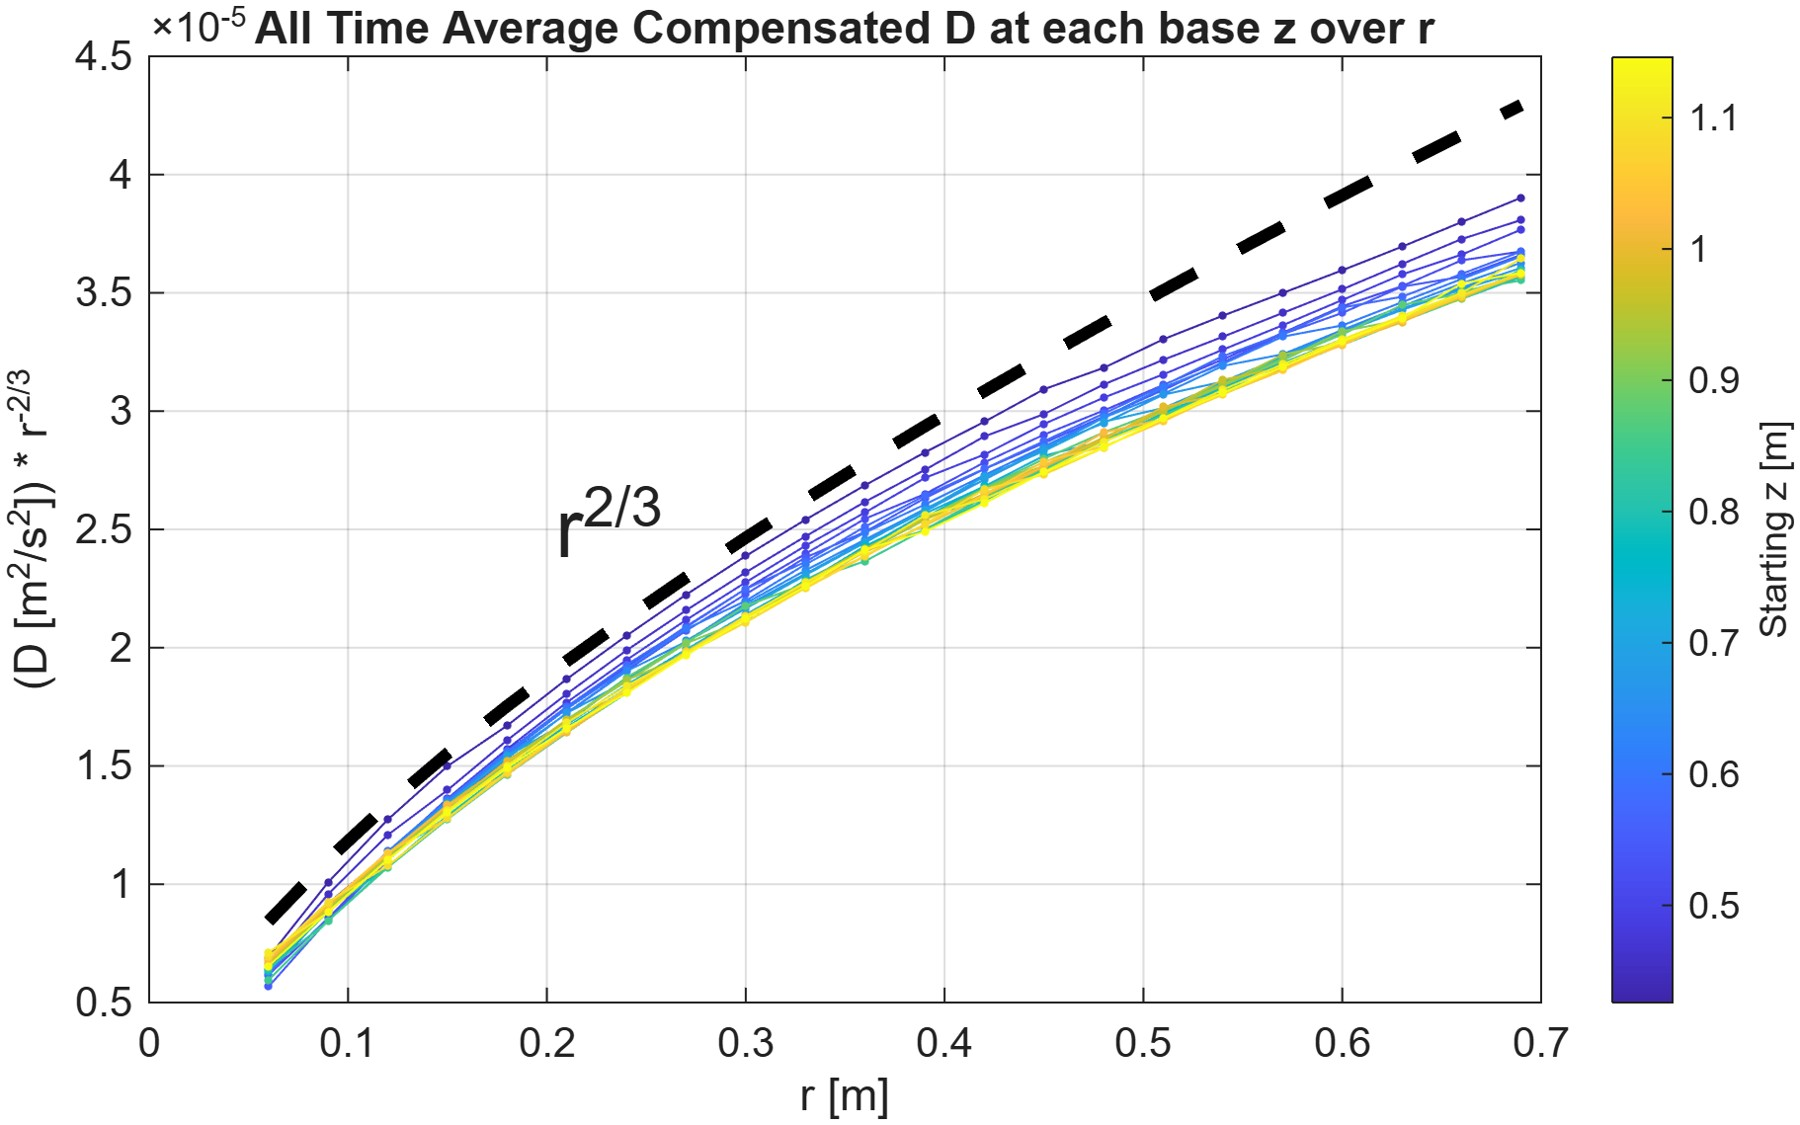
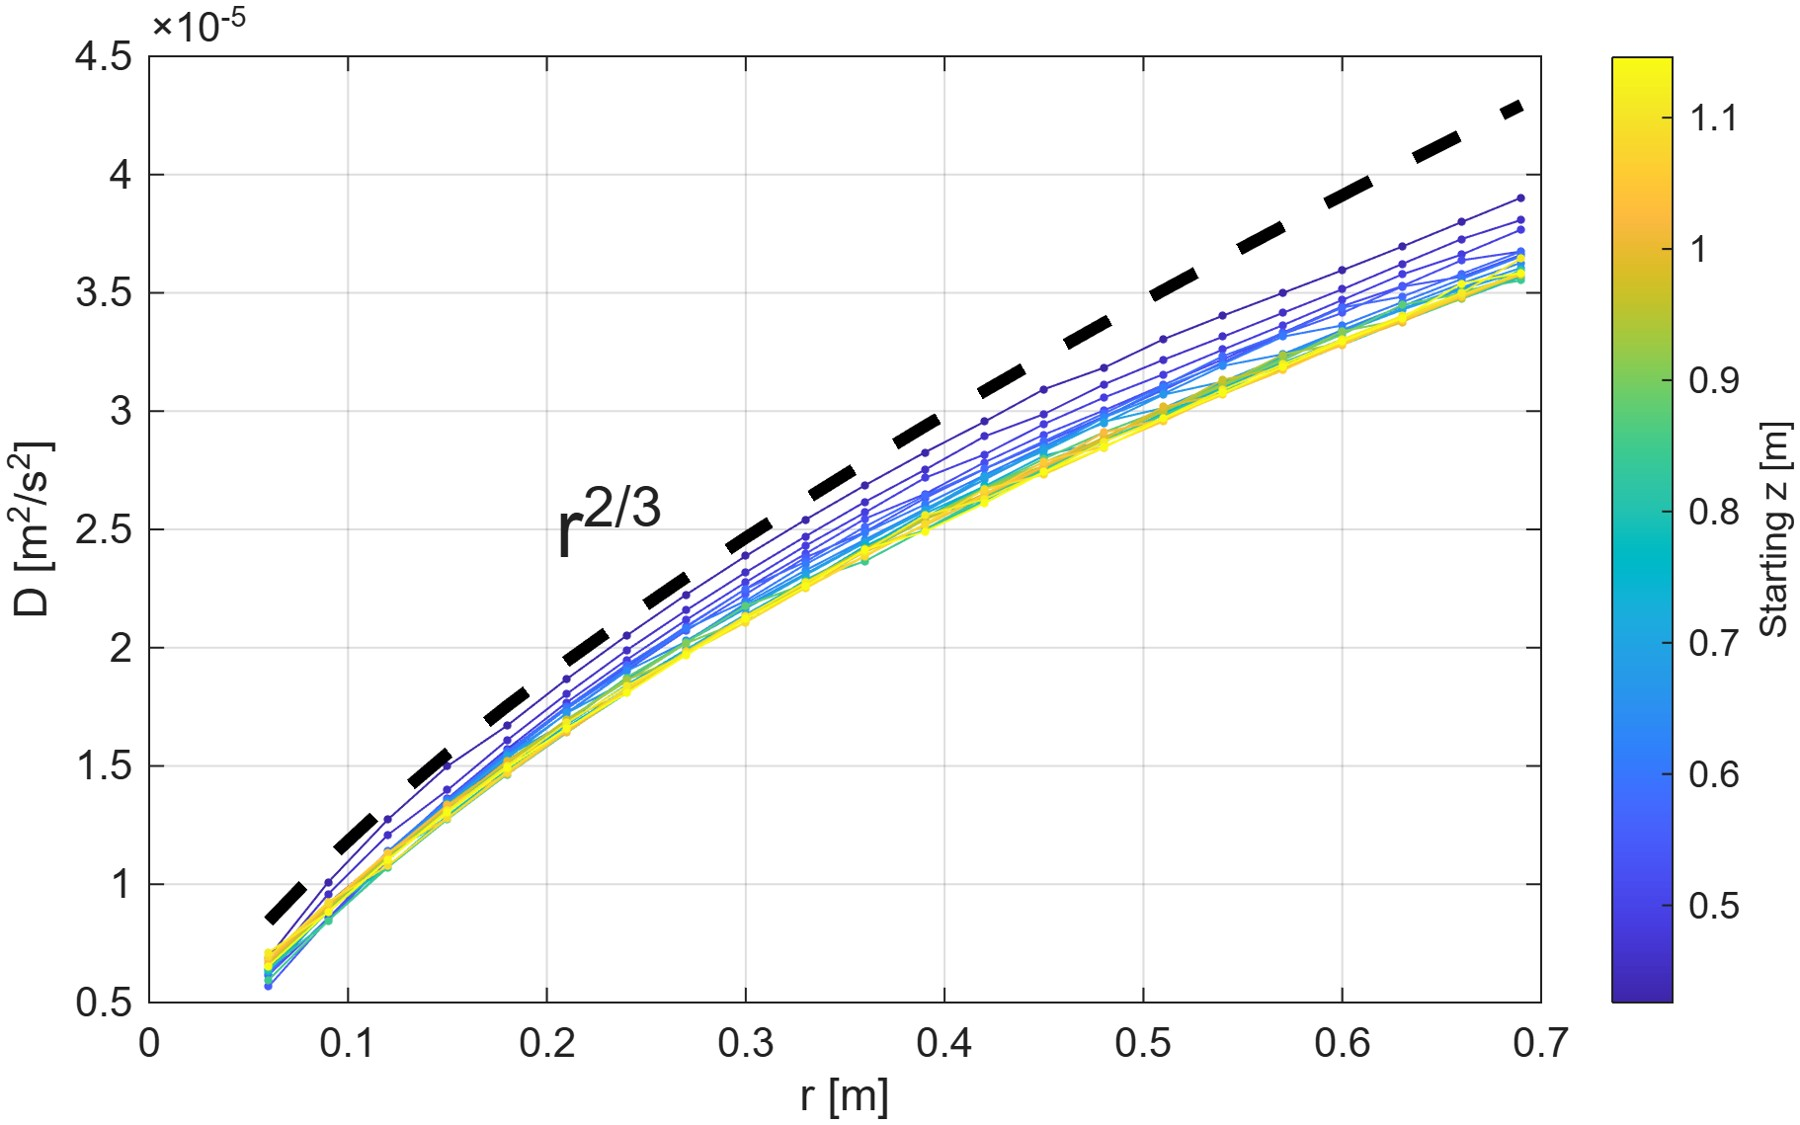
Update_07302026

Changed region(s): [[0.1244, 0.0, 0.8089, 0.0622], [0.0, 0.3422, 0.0311, 0.6222]]

diff --git a/turb_page.html b/turb_page.html
@@ -33,8 +33,8 @@
 				<section id="one">
 					<div class="inner">
 						<h1 style="text-align: center; font-weight: bold; font-size: 32px; color: #333;">Environmental Fluid Dynamics: Turbulence</h1>
-					<a href="images/breaking_bore - Copy.jpg" class="image fit thumb">
-					<img src="images/breaking_bore - Copy.jpg" alt="Environmental Fluid Dynamics" /></img></a>
+					<a href="images/breaking.jpeg" class="image fit thumb">
+					<img src="images/breaking.jpeg" alt="Environmental Fluid Dynamics" /></img></a>
 					
 
 					<h2 style="text-align: center; font-weight: bold; font-size: 24px; color: #333;">Objective</h2>
@@ -206,6 +206,8 @@
 							<div class="inner">
 								<p style="color: #333;">Quality control is applied to the raw data shown in the previous section. Details are a little extensive for the overview here, but they involve removing velocity spikes, data with bad correlation, adjsuting artificial sensor biases, and more. After that, turbulent dissipation is found in the four ways described previously. First we will look at velocity spectra. </p>
 
+								<h3 style="text-align: center; font-weight: bold; font-size: 20px; color: #333;">Velocity Spectra</h3>
+
 								<div class="image-block" style="margin-bottom: 2em;">
 									<a href="images/aqdp_summary_spectra.jpeg" class="image fit thumb">
 										<img src="images/aqdp_summary_spectra.jpeg" alt="Velocity Spectra" />
@@ -224,6 +226,9 @@
 										<strong style="color: #333">One example of a 20 minute vertical velocity spectrum. Turbulence theory (Kolmogorov's Hypothesis) states that the energy cascade should follow a -5/3 slope (in loglog space) for turbulence to be present. The strength of the turbulence depends on the PSD value where the slope matches -5/3. We can see the region >10 m^-1 is close to -5/3.
 								</div>
 							
+								<h3 style="text-align: center; font-weight: bold; font-size: 20px; color: #333;">Structure Functions</h3>
+
+
 							<p style="color: #333;">Structure functions are similar to velocity spectra in that they also should scale with a power law for turbulence to be present. The structure function fixes one velocity and then compares the rest of the velocities vertically away from the fixed point. The squared velocity difference should scale with a 2/3 power law. </p>
 								<div class="image-block" style="margin-bottom: 2em; max-width: 75%; margin-left: auto; margin-right: auto;">
 									<a href="images/SF_20.jpeg" class="image fit thumb">
@@ -240,7 +245,16 @@
 									<p style="color: #333; margin-top: 0.8em;">
 										<strong style="color: #333">Average 20min. structure function for the entire timeseries, most of the variations have been averaged out. The portion that follows 2/3 power law is near the center of the r range.</strong>
 								</div>
-								
+
+								<h3 style="text-align: center; font-weight: bold; font-size: 20px; color: #333;">Thorpe Scale</h3>
+								<p style="color: #333;">The Thorpe scale measures the strength of turbulence by tracking how far water is displaced vertically during a turbulent event. These overturns are easily viewable in the raw temperature signal. The strengthe of turbulence depends on both the size of the overturn and the level of stratification across the overturns vertical range. Stratification is a measure of the vertical density gradient in the ocean. If there is a large gradient, the stratification is high, and vice versa. Stratification is a barrier to turbulence, so a smaller overturn in a highly stratified environment could be equivalent to a large overturn in a less stratified environment.</p>
+								<div class="image-block" style="margin-bottom: 2em; max-width: 75%; margin-left: auto; margin-right: auto;">
+									<a href="images/oturn.jpeg" class="image fit thumb">
+										<img src="images/oturn.jpeg" alt="Temperature Overturns" />
+									</a>
+									<p style="color: #333; margin-top: 0.8em;">
+										<strong style="color: #333">An example of a single temperature profile. The red line is the raw signal and the blue is the sorted signal. Areas where the red and blue line deviate are overturns. There are multiple overturns in the profile, distinguishable by locating where the red line crosses the blue from left to right. Multiple overturns in the profile also yields vertical resolution for turbulent dissipation.</strong>
+								</div>
 							
 							
 							</div>

diff --git a/index.html b/index.html
@@ -45,7 +45,7 @@
 								<a href="turb_page.html" style="text-decoration: none; display: block;">
 									
 									<span class="image fit thumb">
-										<img src="images/breaking_bore - Copy.jpg" alt="Environmental Fluid Dynamics" />
+										<img src="images/breaking.jpeg" alt="Environmental Fluid Dynamics" />
 									</span>
 									
 									<h3 style="color: #333;">Environmental Fluid Dynamics: Turbulence</h3>
